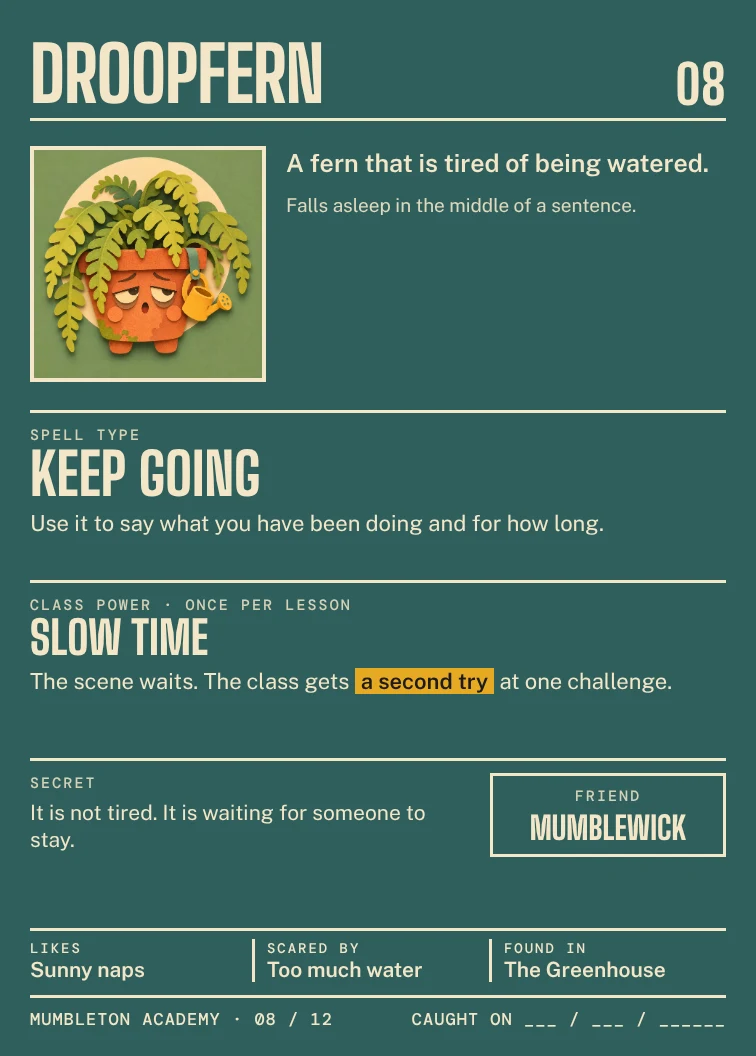
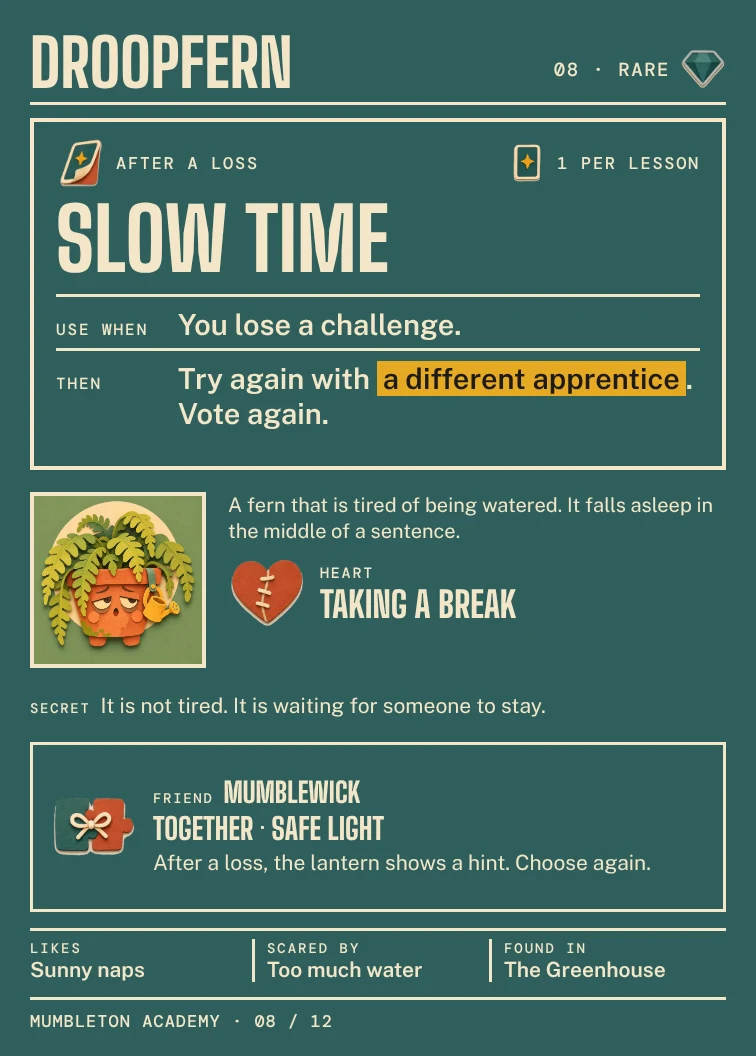
Mumbleton: novo verso das criaturas (poder, Heart, amigos), manias dos aprendizes e derrota por balanços
Claude-Session: https://claude.ai/code/session_01WUTQBVFXRKvNy6Sg3Pwcvz

Changed region(s): [[0.0304, 0.0312, 0.9735, 0.875], [0.0304, 0.9375, 0.9431, 0.9688], [0.9431, 0.8125, 0.9735, 0.875]]

diff --git a/public/mumbleton/apresentacao.html b/public/mumbleton/apresentacao.html
@@ -234,6 +234,26 @@ ol li b{display:block;font:800 46px/1.05 BSD;text-transform:uppercase;color:var(
   </ol>
 </section></div>
 
+<div class="pw"><section class="s light" data-notes="Toda escolha tem um preço. Cada aprendiz tem uma qualidade forte e uma mania. A cena dá uma pista, por exemplo, há um botão vermelho grande. Se a turma aponta para o aprendiz cuja mania combina com a pista, o resultado cai de três para dois. A mania sozinha nunca cria soluço. A falha vira uma cena engraçada, nunca uma nota. O texto fala do aprendiz, nunca do aluno. No máximo uma pista-armadilha por desafio e duas por capítulo. As manias são um rascunho.">
+  <div class="k" style="left:128px;top:128px">Os aprendizes</div>
+  <h2 style="left:128px;top:200px;width:1600px">Toda escolha tem um preço.</h2>
+  <p style="left:128px;top:330px;width:1700px;font-size:30px">Uma pista da cena pode combinar com a mania do aprendiz: o resultado cai de 3 para 2. Rascunho.</p>
+  <ol style="left:128px;top:400px;width:820px">
+    <li><span><b>Juno</b>Forgets what she is doing.</span></li>
+    <li><span><b>Kai</b>Checks everything twice.</span></li>
+    <li><span><b>Pim</b>Is afraid of the dark.</span></li>
+    <li><span><b>Odette</b>Never changes her mind.</span></li>
+  </ol>
+  <ol style="left:1000px;top:400px;width:820px;counter-reset:n 4">
+    <li><span><b>Rafa</b>Pushes the button first.</span></li>
+    <li><span><b>Mina</b>Wants to be the boss.</span></li>
+    <li><span><b>Theo</b>Wants five more minutes.</span></li>
+    <li><span><b>Zuri</b>Wants everyone to watch.</span></li>
+  </ol>
+</section></div>
+
+
+
 <!-- 7 CLASSES -->
 <div class="pw"><section class="s teal" data-notes="Seis classes permanentes. Cada classe é dona de uma frase fixa que a turma diz em voz alta. Quando a frase é dita, a professora toca no botão correspondente na lousa. Frases sem dono pertencem ao grupo todo. Limites por cena: Echo, Pacer e Decoder duas vezes, Rescuer uma vez.">
   <div class="k" style="left:128px;top:96px">Classes</div>
@@ -319,24 +339,24 @@ ol li b{display:block;font:800 46px/1.05 BSD;text-transform:uppercase;color:var(
   </div>
 </section></div>
 
-<div class="pw"><section class="s light" data-notes="O verso da criatura agora serve a todos os níveis, como os aprendizes. Saem a unidade do livro e as três estruturas do Kids 6. Entram o tipo de feitiço, o poder da turma, um segredo e um amigo. As frases de cada nível vão numa folha por unidade. Exemplo: Snapcase e Mumblewick. Rascunho em teste.">
+<div class="pw"><section class="s light" data-notes="O verso da criatura agora serve a todos os níveis, como os aprendizes. Saem a unidade do livro e as três estruturas do Kids 6. As frases de cada nível vão numa folha por unidade. Agora o poder fica em destaque: quando usar e o que acontece, num molde igual em todas as cartas. O lore fica pequeno embaixo, com o Heart, o segredo e o amigo. Saiu o Caught on, porque o app guarda a data da captura. Exemplo: Snapcase e Mumblewick.">
   <div class="k" style="left:128px;top:128px">O verso da criatura</div>
   <h2 style="left:128px;top:200px;width:820px;font-size:100px">Um verso só, para todos os níveis.</h2>
   <p style="left:128px;top:600px;width:780px;font-size:34px"><b>Sai</b> a unidade do livro e as frases de cada nível. Elas vão numa folha por unidade.</p>
-  <p style="left:128px;top:750px;width:780px;font-size:34px"><b>Entra</b> o tipo de feitiço, o poder da turma, um segredo e um amigo.</p>
-  <p style="left:128px;top:900px;width:780px;font-size:28px">Exemplo: Snapcase e Mumblewick. Os 12 versos estão no slide seguinte.</p>
+  <p style="left:128px;top:750px;width:780px;font-size:34px"><b>Entra</b> o poder em destaque: quando usar e o que acontece.</p>
+  <p style="left:128px;top:900px;width:780px;font-size:28px">O lore (Heart, segredo e amigo) fica pequeno embaixo. Exemplo: Snapcase e Mumblewick.</p>
   <img src="neutro/n02.webp" alt="Verso novo da Snapcase" class="shot" style="left:950px;top:130px;width:440px;height:614px">
   <img src="neutro/n01.webp" alt="Verso novo da Mumblewick" class="shot" style="left:1410px;top:230px;width:440px;height:614px">
 </section></div>
 
-<div class="pw"><section class="s " data-notes="A raridade muda a força do poder da criatura. Comum, efeito pequeno. Rara, efeito claro. Especial, efeito forte. Lendária, o Mr. Typo, força a revanche depois de uma derrota. Um poder por aula. Os poderes são rascunho e vão ser testados.">
+<div class="pw"><section class="s " data-notes="A raridade muda a força do poder da criatura. Comum, efeito pequeno. Rara, efeito claro. Especial, efeito forte. Lendária, o Mr. Typo, força a revanche depois de uma derrota, na temporada 2. Um poder por aula. Os poderes são rascunho e vão ser testados.">
   <div class="k" style="left:128px;top:128px">As criaturas</div>
   <h2 style="left:128px;top:200px;width:1600px">Quanto mais rara, mais forte.</h2>
   <div style="left:128px;top:470px;width:1664px">
     <div class="row"><b>Comum</b><u>Snapcase</u><span>Traz de volta uma pista de uma cena anterior.</span></div>
     <div class="row"><b>Rara</b><u>Mumblewick</u><span>A luz revela um detalhe escondido, e a turma o descreve em inglês.</span></div>
     <div class="row"><b>Especial</b><u>Bickercrown</u><span>A turma escolhe o efeito engraçado do próximo soluço.</span></div>
-    <div class="row"><b>Lendária</b><u>Mr. Typo</u><span>Depois de perder o confronto, a turma força a revanche. Ele volta com uma página a menos.</span></div>
+    <div class="row"><b>Lendária</b><u>Mr. Typo</u><span>Na temporada 2, depois de perder um final, a turma força a revanche. Ele volta com uma página a menos.</span></div>
   </div>
   <p style="left:128px;top:960px;width:1600px;font-size:28px">Cada poder vale uma vez por aula. Rascunho: os poderes ainda vão ser testados.</p>
 </section></div>
@@ -344,6 +364,16 @@ ol li b{display:block;font:800 46px/1.05 BSD;text-transform:uppercase;color:var(
 <div class="pw"><section class="s light" data-notes="Os 12 versos neutros. Cada um tem tipo de feitiço, poder da turma, segredo e amigo. Os amigos formam pares que se completam: Snapcase e Echobell, Mumblewick e Droopfern, Velvetsigh e Pagepile, Snoopreel e Tattlebed, Bickercrown e Bossleaf, Fixitpot e Mr. Typo. A força do poder sobe com a raridade. Fixitpot cancela uma perda e o Mr. Typo força a revanche: a diferença de força é de propósito. Rascunho para o especialista.">
   <div class="k" style="left:128px;top:70px">Os 12 versos · rascunho</div>
   <img src="neutro/n01.webp" alt="Verso da criatura 01" class="shot" style="left:128px;top:150px;width:262px;height:366px;border-width:5px"><img src="neutro/n02.webp" alt="Verso da criatura 02" class="shot" style="left:416px;top:150px;width:262px;height:366px;border-width:5px"><img src="neutro/n03.webp" alt="Verso da criatura 03" class="shot" style="left:704px;top:150px;width:262px;height:366px;border-width:5px"><img src="neutro/n04.webp" alt="Verso da criatura 04" class="shot" style="left:992px;top:150px;width:262px;height:366px;border-width:5px"><img src="neutro/n05.webp" alt="Verso da criatura 05" class="shot" style="left:1280px;top:150px;width:262px;height:366px;border-width:5px"><img src="neutro/n06.webp" alt="Verso da criatura 06" class="shot" style="left:1568px;top:150px;width:262px;height:366px;border-width:5px"><img src="neutro/n07.webp" alt="Verso da criatura 07" class="shot" style="left:128px;top:590px;width:262px;height:366px;border-width:5px"><img src="neutro/n08.webp" alt="Verso da criatura 08" class="shot" style="left:416px;top:590px;width:262px;height:366px;border-width:5px"><img src="neutro/n09.webp" alt="Verso da criatura 09" class="shot" style="left:704px;top:590px;width:262px;height:366px;border-width:5px"><img src="neutro/n10.webp" alt="Verso da criatura 10" class="shot" style="left:992px;top:590px;width:262px;height:366px;border-width:5px"><img src="neutro/n11.webp" alt="Verso da criatura 11" class="shot" style="left:1280px;top:590px;width:262px;height:366px;border-width:5px"><img src="neutro/n12.webp" alt="Verso da criatura 12" class="shot" style="left:1568px;top:590px;width:262px;height:366px;border-width:5px">
+</section></div>
+
+<div class="pw"><section class="s teal" data-notes="O Heart. Cada criatura tem um traço que a faz especial, como acolher, ouvir ou aprender com o erro. Ele não aparece como lição de moral: depois do desafio de inglês, o app mostra duas falas e só uma combina com a criatura. Se a turma erra, o feitiço balança, com um efeito engraçado. O nome do Heart só aparece na carta depois da captura. Duas cartas amigas na coleção liberam um poder da dupla, e o app avisa quando a turma tem as duas.">
+  <div class="k" style="left:128px;top:128px">O Heart e os amigos</div>
+  <h2 style="left:128px;top:200px;width:1600px">Cada criatura tem um coração.</h2>
+  <div style="left:128px;top:470px;width:1664px">
+    <div class="row2"><b>O Heart</b><span>Um traço de cada criatura. Echobell: <span class="q">Welcoming new friends</span>. Mr. Typo: <span class="q">Learning from mistakes</span>.</span></div>
+    <div class="row2"><b>No desafio</b><span>Além do inglês, o app mostra duas falas. Só uma combina com a criatura. Se a turma erra, o feitiço balança.</span></div>
+    <div class="row2"><b>Os amigos</b><span>Duas cartas amigas na coleção liberam um poder da dupla. O app avisa quando a turma tem as duas.</span></div>
+  </div>
 </section></div>
 
 <!-- 13 MAPA -->
@@ -370,13 +400,13 @@ ol li b{display:block;font:800 46px/1.05 BSD;text-transform:uppercase;color:var(
   <div style="left:940px;top:610px;width:2px;height:240px;background:rgba(243,230,200,.3)"></div>
 </section></div>
 
-<div class="pw"><section class="s teal" data-notes="Perder faz parte do jogo. Se a turma falha uma cena, a criatura escapa ou o Mr. Typo leva uma página, e o jogo segue. A página só volta se a turma for bem em duas das três cenas. Se perde o confronto, o Typo foge com as páginas e ela tenta de novo. Depois, a turma diz Let’s try again e conta em inglês o que vai fazer diferente. Perde a turma, nunca um aluno sozinho. Quem faltou não perde nada.">
+<div class="pw"><section class="s teal" data-notes="Perder faz parte do jogo. Se a turma falha uma cena, a criatura escapa ou o Mr. Typo leva uma página, e o jogo segue. Quando um feitiço balança porque o Heart não combinou, o app conta: com quatro balanços no capítulo, a criatura se esconde e a cena se repete na próxima aula. A página só volta se a turma for bem em duas das três cenas. Se perde o confronto, o Typo foge com as páginas e ela tenta de novo. Depois, a turma diz Let’s try again e conta em inglês o que vai fazer diferente. Perde a turma, nunca um aluno sozinho. Quem faltou não perde nada.">
   <div class="k" style="left:128px;top:128px">Perder</div>
   <h2 style="left:128px;top:200px;width:1600px">Perder faz parte.</h2>
   <p style="left:128px;top:340px;width:1600px;font-size:32px">Perde a turma, nunca um aluno sozinho. Quem faltou não perde nada.</p>
   <div style="left:128px;top:450px;width:1664px">
     <div class="row2"><b>Na cena</b><span>Se a turma falha o desafio, a criatura escapa ou o Typo leva uma página. O jogo segue.</span></div>
-    <div class="row2"><b>No capítulo</b><span>A página só volta se a turma for bem em 2 das 3 cenas. Se não, o capítulo pode ser jogado de novo.</span></div>
+    <div class="row2"><b>No capítulo</b><span>A página só volta se a turma for bem em 2 das 3 cenas. Com 4 feitiços que balançam, a criatura se esconde e a cena se repete na próxima aula.</span></div>
     <div class="row2"><b>Com o Typo</b><span>Se a turma perde o confronto, ele foge com as páginas. Ela volta a jogar capítulos e tenta de novo.</span></div>
     <div class="row2"><b>Depois</b><span>A turma diz <span class="q">“Let’s try again.”</span> e conta em inglês o que vai fazer diferente.</span></div>
   </div>
